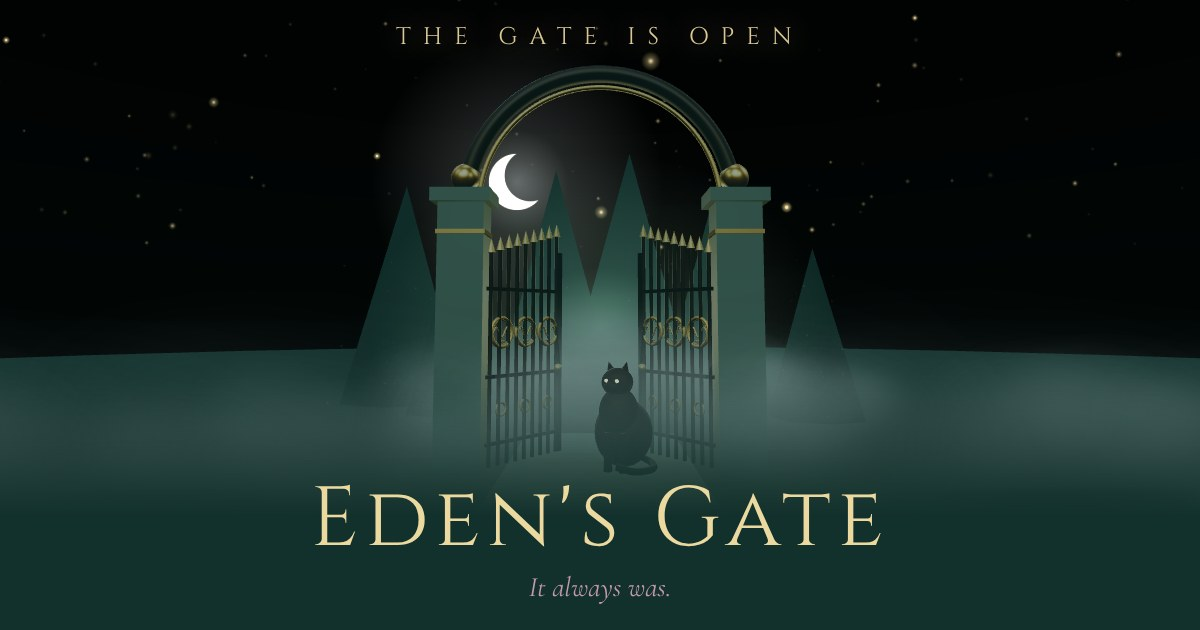
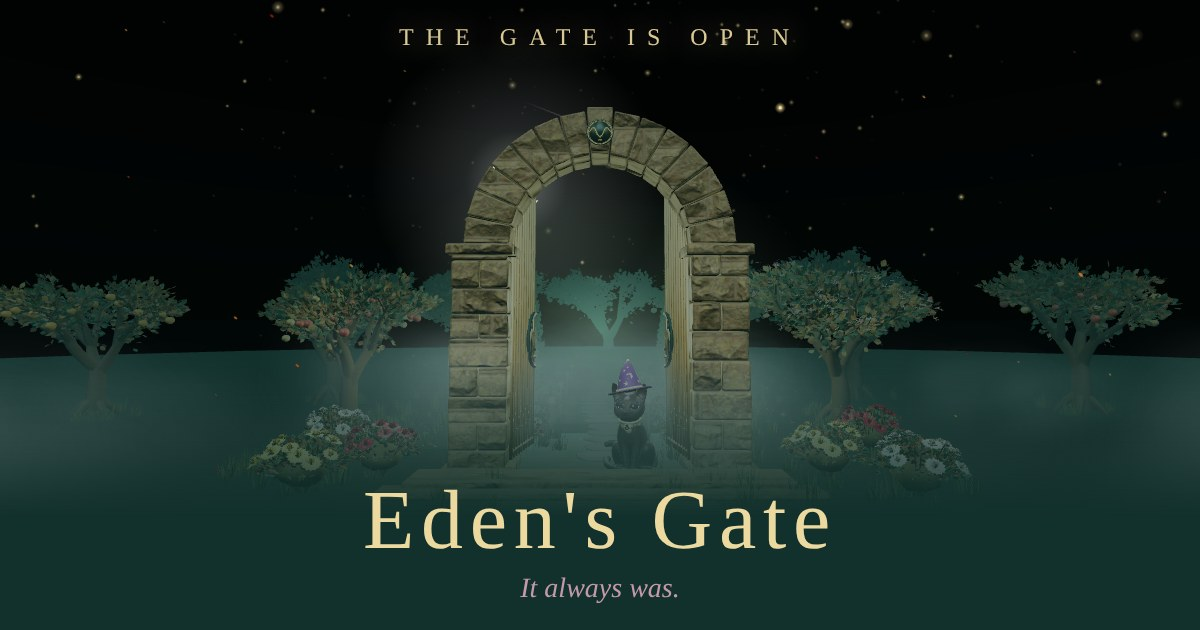
Link preview: the stone gate at night with Tommy
Claude-Session: https://claude.ai/code/session_01NGa3Y6dosH6haaz4zNW7Nn

diff --git a/public/index.html b/public/index.html
@@ -10,14 +10,14 @@
 <meta property="og:type" content="website">
 <meta property="og:url" content="https://edensgate.art/">
 <meta property="og:site_name" content="Eden's Gate">
-<meta property="og:image" content="https://edensgate.art/share.jpg">
+<meta property="og:image" content="https://edensgate.art/share.jpg?v=2">
 <meta property="og:image:width" content="1200">
 <meta property="og:image:height" content="630">
-<meta property="og:image:alt" content="An open iron gate under a crescent moon, with a black cat sitting in it">
+<meta property="og:image:alt" content="An ancient stone gate open under the stars, with Tommy the black cat in a wizard hat sitting in it">
 <meta name="twitter:card" content="summary_large_image">
 <meta name="twitter:title" content="Eden's Gate">
 <meta name="twitter:description" content="The gate is open. It always was. Free music to browse, download and use for anything.">
-<meta name="twitter:image" content="https://edensgate.art/share.jpg">
+<meta name="twitter:image" content="https://edensgate.art/share.jpg?v=2">
 <meta name="theme-color" content="#12302c">
 <link rel="icon" href="/favicon.svg" type="image/svg+xml">
 <link rel="preconnect" href="https://fonts.googleapis.com">
